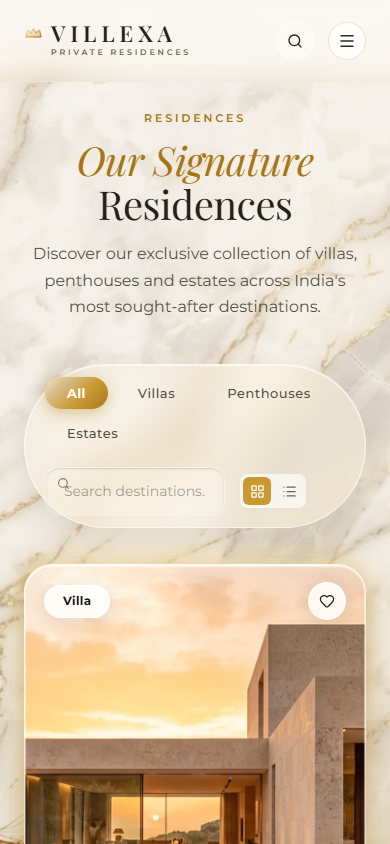
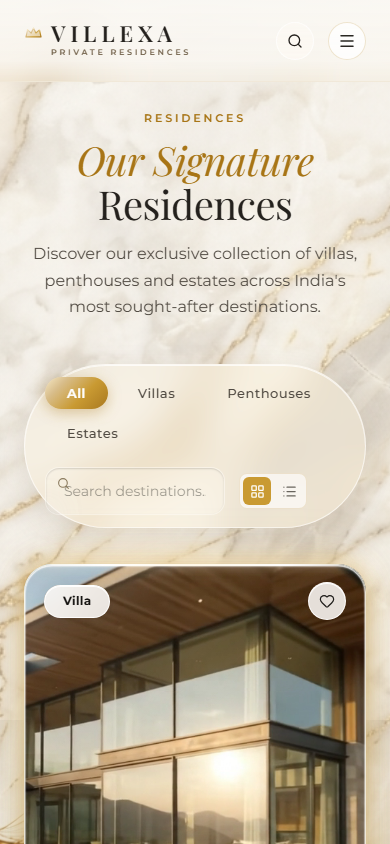
Update

Changed region(s): [[0.0615, 0.6469, 0.9538, 1.0]]

diff --git a/src/styles/main.css b/src/styles/main.css
@@ -623,26 +623,26 @@ a {
   background: radial-gradient(ellipse at 50% 50%, rgba(235, 190, 95, 0.60) 0%, rgba(225, 180, 85, 0.28) 45%, transparent 75%);
 }
 
-/* 4. PROPERTY INFORMATION CARDS (Floating elevated translucent glass plaque transmitting photography) */
+/* 4. PROPERTY INFORMATION CARDS (Floating elevated crystal glass plaque transmitting photography) */
 .property-glass-card,
 .glass-property-card,
 .glass-panel-integrated,
 .floating-glass-panel {
   position: relative;
-  background: rgba(246, 239, 224, 0.24);
-  backdrop-filter: blur(12px) saturate(155%);
-  -webkit-backdrop-filter: blur(12px) saturate(155%);
+  background: linear-gradient(135deg, rgba(255, 255, 255, 0.26) 0%, rgba(255, 255, 255, 0.10) 50%, rgba(246, 239, 224, 0.16) 100%);
+  backdrop-filter: blur(8px) saturate(160%);
+  -webkit-backdrop-filter: blur(8px) saturate(160%);
 
-  border: 1px solid rgba(255, 255, 255, 0.78);
+  border: 1.5px solid rgba(255, 255, 255, 0.82);
   border-radius: 24px;
 
   box-shadow:
-    0 18px 36px rgba(42, 27, 12, 0.20),
-    0 8px 16px rgba(42, 27, 12, 0.12),
-    0 0 22px rgba(218, 169, 75, 0.28),
-    0 0 45px rgba(218, 169, 75, 0.12),
-    inset 0 1px 0 rgba(255, 255, 255, 0.88),
-    inset 0 -1px 0 rgba(255, 255, 255, 0.20);
+    0 18px 36px rgba(35, 22, 10, 0.20),
+    0 8px 16px rgba(35, 22, 10, 0.10),
+    0 0 25px rgba(218, 169, 75, 0.32),
+    0 0 50px rgba(218, 169, 75, 0.15),
+    inset 0 1.5px 1.5px rgba(255, 255, 255, 0.95),
+    inset 0 -1px 1px rgba(255, 255, 255, 0.30);
 
   color: #1E1C19;
   transform: translateY(0);
@@ -659,29 +659,29 @@ a {
 .glass-panel-integrated:hover,
 .floating-glass-panel:hover {
   transform: translateY(-8px);
-  background: rgba(246, 239, 224, 0.28);
-  border-color: rgba(255, 255, 255, 0.92);
+  background: linear-gradient(135deg, rgba(255, 255, 255, 0.32) 0%, rgba(255, 255, 255, 0.14) 50%, rgba(246, 239, 224, 0.20) 100%);
+  border-color: rgba(255, 255, 255, 0.95);
   box-shadow:
-    0 24px 48px rgba(42, 27, 12, 0.26),
-    0 12px 22px rgba(42, 27, 12, 0.16),
-    0 0 32px rgba(218, 169, 75, 0.42),
-    0 0 60px rgba(218, 169, 75, 0.20),
-    inset 0 1.5px 0 rgba(255, 255, 255, 1.0),
-    inset 0 -1px 0 rgba(255, 255, 255, 0.30);
+    0 24px 48px rgba(35, 22, 10, 0.26),
+    0 12px 22px rgba(35, 22, 10, 0.14),
+    0 0 35px rgba(218, 169, 75, 0.45),
+    0 0 65px rgba(218, 169, 75, 0.22),
+    inset 0 2px 2px rgba(255, 255, 255, 1.0),
+    inset 0 -1px 1px rgba(255, 255, 255, 0.40);
 }
 
 /* 5. COLLECTION CARDS (Photo-backed cards with floating glass plaque) */
 .glass-collection-card {
-  background: rgba(255, 248, 238, 0.25);
-  backdrop-filter: blur(18px) saturate(160%);
-  -webkit-backdrop-filter: blur(18px) saturate(160%);
-  border: 1px solid rgba(255, 255, 255, 0.78);
+  background: linear-gradient(135deg, rgba(255, 255, 255, 0.28) 0%, rgba(255, 255, 255, 0.12) 50%, rgba(246, 239, 224, 0.16) 100%);
+  backdrop-filter: blur(8px) saturate(160%);
+  -webkit-backdrop-filter: blur(8px) saturate(160%);
+  border: 1.5px solid rgba(255, 255, 255, 0.82);
   border-radius: 20px;
   box-shadow:
     inset 0 1.5px 2px 0 rgba(255, 255, 255, 0.95),
     inset 0 0 12px 0 rgba(216, 189, 138, 0.15),
     0 4px 10px -2px rgba(20, 16, 12, 0.16),
-    0 18px 40px -4px rgba(20, 16, 12, 0.26),
+    0 18px 40px -4px rgba(20, 16, 12, 0.22),
     0 0 24px 0 rgba(201, 154, 50, 0.18);
   color: #1E1C19;
   transition: transform 0.4s cubic-bezier(0.16, 1, 0.3, 1), box-shadow 0.4s cubic-bezier(0.16, 1, 0.3, 1), border-color 0.35s ease, background 0.35s ease;
@@ -689,14 +689,14 @@ a {
 
 .glass-collection-card:hover {
   transform: translateY(-8px);
-  background: rgba(255, 248, 238, 0.32);
+  background: linear-gradient(135deg, rgba(255, 255, 255, 0.34) 0%, rgba(255, 255, 255, 0.16) 50%, rgba(246, 239, 224, 0.22) 100%);
   border-color: rgba(255, 255, 255, 0.95);
   box-shadow:
-    inset 0 2px 3px 0 rgba(255, 255, 255, 1),
+    inset 0 2px 2px 0 rgba(255, 255, 255, 1),
     inset 0 0 16px 0 rgba(216, 189, 138, 0.22),
-    0 8px 16px -2px rgba(20, 16, 12, 0.22),
-    0 28px 56px -6px rgba(20, 16, 12, 0.36),
-    0 0 32px 2px rgba(201, 154, 50, 0.32);
+    0 6px 14px -2px rgba(20, 16, 12, 0.20),
+    0 24px 48px -4px rgba(20, 16, 12, 0.28),
+    0 0 32px 0 rgba(201, 154, 50, 0.26);
 }
 
 /* 6. PROPERTY DETAIL PANELS (Top crystal hero card on /residence/:slug) */

diff --git a/src/components/property/PropertyCard.tsx b/src/components/property/PropertyCard.tsx
@@ -289,17 +289,17 @@ export const PropertyCard: React.FC<PropertyCardProps> = ({ property, priority =
           gap: '9px',
           borderRadius: '24px',
           background: isHovered
-            ? 'rgba(246, 239, 224, 0.28)'
-            : 'rgba(246, 239, 224, 0.24)',
-          backdropFilter: 'blur(12px) saturate(155%)',
-          WebkitBackdropFilter: 'blur(12px) saturate(155%)',
+            ? 'linear-gradient(135deg, rgba(255, 255, 255, 0.32) 0%, rgba(255, 255, 255, 0.14) 50%, rgba(246, 239, 224, 0.20) 100%)'
+            : 'linear-gradient(135deg, rgba(255, 255, 255, 0.26) 0%, rgba(255, 255, 255, 0.10) 50%, rgba(246, 239, 224, 0.16) 100%)',
+          backdropFilter: 'blur(8px) saturate(160%)',
+          WebkitBackdropFilter: 'blur(8px) saturate(160%)',
           border: isHovered
-            ? '1px solid rgba(255, 255, 255, 0.92)'
-            : '1px solid rgba(255, 255, 255, 0.78)',
+            ? '1.5px solid rgba(255, 255, 255, 0.95)'
+            : '1.5px solid rgba(255, 255, 255, 0.82)',
           transform: isHovered && !prefersReducedMotion ? 'translateY(-8px)' : 'translateY(0)',
           boxShadow: isHovered
-            ? '0 28px 52px rgba(42, 27, 12, 0.28), 0 12px 22px rgba(42, 27, 12, 0.16), 0 0 35px rgba(218, 169, 75, 0.45), 0 0 65px rgba(218, 169, 75, 0.22), inset 0 1.5px 0 rgba(255, 255, 255, 1.0), inset 0 -1px 0 rgba(255, 255, 255, 0.30)'
-            : '0 20px 38px rgba(42, 27, 12, 0.22), 0 8px 16px rgba(42, 27, 12, 0.12), 0 0 25px rgba(218, 169, 75, 0.30), 0 0 50px rgba(218, 169, 75, 0.14), inset 0 1px 0 rgba(255, 255, 255, 0.90), inset 0 -1px 0 rgba(255, 255, 255, 0.20)',
+            ? '0 24px 48px rgba(35, 22, 10, 0.26), 0 12px 22px rgba(35, 22, 10, 0.14), 0 0 35px rgba(218, 169, 75, 0.45), 0 0 65px rgba(218, 169, 75, 0.22), inset 0 2px 2px rgba(255, 255, 255, 1.0), inset 0 -1px 1px rgba(255, 255, 255, 0.40)'
+            : '0 18px 36px rgba(35, 22, 10, 0.20), 0 8px 16px rgba(35, 22, 10, 0.10), 0 0 25px rgba(218, 169, 75, 0.32), 0 0 50px rgba(218, 169, 75, 0.15), inset 0 1.5px 1.5px rgba(255, 255, 255, 0.95), inset 0 -1px 1px rgba(255, 255, 255, 0.30)',
           transition: 'transform 400ms cubic-bezier(0.2, 0.75, 0.25, 1), box-shadow 400ms ease, border-color 400ms ease, background 400ms ease'
         }}
       >
@@ -311,12 +311,12 @@ export const PropertyCard: React.FC<PropertyCardProps> = ({ property, priority =
             left: '6%',
             right: '6%',
             height: '2.5px',
-            background: 'linear-gradient(90deg, transparent 0%, rgba(255, 255, 255, 0.98) 25%, #FFFBEA 50%, rgba(255, 255, 255, 0.98) 75%, transparent 100%)',
+            background: 'linear-gradient(90deg, transparent 0%, rgba(255, 255, 255, 0.98) 25%, #FFFDF2 50%, rgba(255, 255, 255, 0.98) 75%, transparent 100%)',
             pointerEvents: 'none',
             boxShadow: isHovered
               ? '0 0 16px rgba(255, 255, 255, 1), 0 0 28px rgba(245, 215, 130, 0.95)'
-              : '0 0 12px rgba(255, 255, 255, 0.95), 0 0 22px rgba(240, 200, 110, 0.80)',
-            opacity: isHovered ? 1 : 0.88,
+              : '0 0 12px rgba(255, 255, 255, 0.95), 0 0 22px rgba(240, 200, 110, 0.85)',
+            opacity: isHovered ? 1 : 0.92,
             transition: 'opacity 0.35s ease, box-shadow 0.35s ease'
           }}
         />

diff --git a/src/components/home/CollectionsShowcaseSection.tsx b/src/components/home/CollectionsShowcaseSection.tsx
@@ -134,12 +134,12 @@ export const CollectionsShowcaseSection: React.FC = () => {
                   margin: '16px',
                   padding: '18px 22px',
                   borderRadius: '20px',
-                  background: 'rgba(255, 248, 238, 0.25)',
-                  backdropFilter: 'blur(18px) saturate(160%)',
-                  WebkitBackdropFilter: 'blur(18px) saturate(160%)',
-                  border: '1px solid rgba(255, 255, 255, 0.78)',
+                  background: 'linear-gradient(135deg, rgba(255, 255, 255, 0.28) 0%, rgba(255, 255, 255, 0.12) 50%, rgba(246, 239, 224, 0.16) 100%)',
+                  backdropFilter: 'blur(8px) saturate(160%)',
+                  WebkitBackdropFilter: 'blur(8px) saturate(160%)',
+                  border: '1.5px solid rgba(255, 255, 255, 0.85)',
                   boxShadow:
-                    'inset 0 1.5px 2px 0 rgba(255, 255, 255, 0.95), inset 0 0 12px 0 rgba(216, 189, 138, 0.15), 0 4px 10px -2px rgba(20, 16, 12, 0.16), 0 18px 40px -4px rgba(20, 16, 12, 0.26), 0 0 24px 0 rgba(201, 154, 50, 0.18)',
+                    'inset 0 1.5px 2px 0 rgba(255, 255, 255, 0.95), inset 0 0 12px 0 rgba(216, 189, 138, 0.15), 0 4px 10px -2px rgba(20, 16, 12, 0.16), 0 18px 40px -4px rgba(20, 16, 12, 0.22), 0 0 24px 0 rgba(201, 154, 50, 0.18)',
                   display: 'flex',
                   alignItems: 'center',
                   justifyContent: 'space-between',

diff --git a/src/pages/CollectionsPage.tsx b/src/pages/CollectionsPage.tsx
@@ -198,12 +198,12 @@ export const CollectionsPage: React.FC = () => {
                   margin: '16px',
                   padding: '20px 24px',
                   borderRadius: '20px',
-                  background: 'rgba(255, 248, 238, 0.25)',
-                  backdropFilter: 'blur(18px) saturate(160%)',
-                  WebkitBackdropFilter: 'blur(18px) saturate(160%)',
-                  border: '1px solid rgba(255, 255, 255, 0.78)',
+                  background: 'linear-gradient(135deg, rgba(255, 255, 255, 0.28) 0%, rgba(255, 255, 255, 0.12) 50%, rgba(246, 239, 224, 0.16) 100%)',
+                  backdropFilter: 'blur(8px) saturate(160%)',
+                  WebkitBackdropFilter: 'blur(8px) saturate(160%)',
+                  border: '1.5px solid rgba(255, 255, 255, 0.85)',
                   boxShadow:
-                    'inset 0 1.5px 2px 0 rgba(255, 255, 255, 0.95), inset 0 0 12px 0 rgba(216, 189, 138, 0.15), 0 4px 10px -2px rgba(20, 16, 12, 0.16), 0 18px 40px -4px rgba(20, 16, 12, 0.26), 0 0 24px 0 rgba(201, 154, 50, 0.18)',
+                    'inset 0 1.5px 2px 0 rgba(255, 255, 255, 0.95), inset 0 0 12px 0 rgba(216, 189, 138, 0.15), 0 4px 10px -2px rgba(20, 16, 12, 0.16), 0 18px 40px -4px rgba(20, 16, 12, 0.22), 0 0 24px 0 rgba(201, 154, 50, 0.18)',
                   display: 'flex',
                   alignItems: 'center',
                   justifyContent: 'space-between',

diff --git a/src/pages/ProductDetailPage.tsx b/src/pages/ProductDetailPage.tsx
@@ -142,11 +142,11 @@ export const ProductDetailPage: React.FC = () => {
             position: 'relative',
             borderRadius: '26px',
             overflow: 'hidden',
-            background: 'rgba(255, 250, 240, 0.26)',
-            backdropFilter: 'blur(18px) saturate(145%)',
-            WebkitBackdropFilter: 'blur(18px) saturate(145%)',
-            border: '1px solid rgba(255, 255, 255, 0.62)',
-            boxShadow: 'inset 0 1px 0 rgba(255, 255, 255, 0.72), 0 12px 35px rgba(70, 48, 20, 0.12)',
+            background: 'linear-gradient(135deg, rgba(255, 255, 255, 0.32) 0%, rgba(255, 255, 255, 0.12) 50%, rgba(246, 239, 224, 0.18) 100%)',
+            backdropFilter: 'blur(10px) saturate(155%)',
+            WebkitBackdropFilter: 'blur(10px) saturate(155%)',
+            border: '1.5px solid rgba(255, 255, 255, 0.85)',
+            boxShadow: 'inset 0 1.5px 2px rgba(255, 255, 255, 0.95), 0 16px 40px rgba(70, 48, 20, 0.12), 0 0 28px rgba(220, 175, 75, 0.25)',
             display: 'grid',
             gridTemplateColumns: 'repeat(auto-fit, minmax(340px, 1fr))',
             alignItems: 'stretch',
